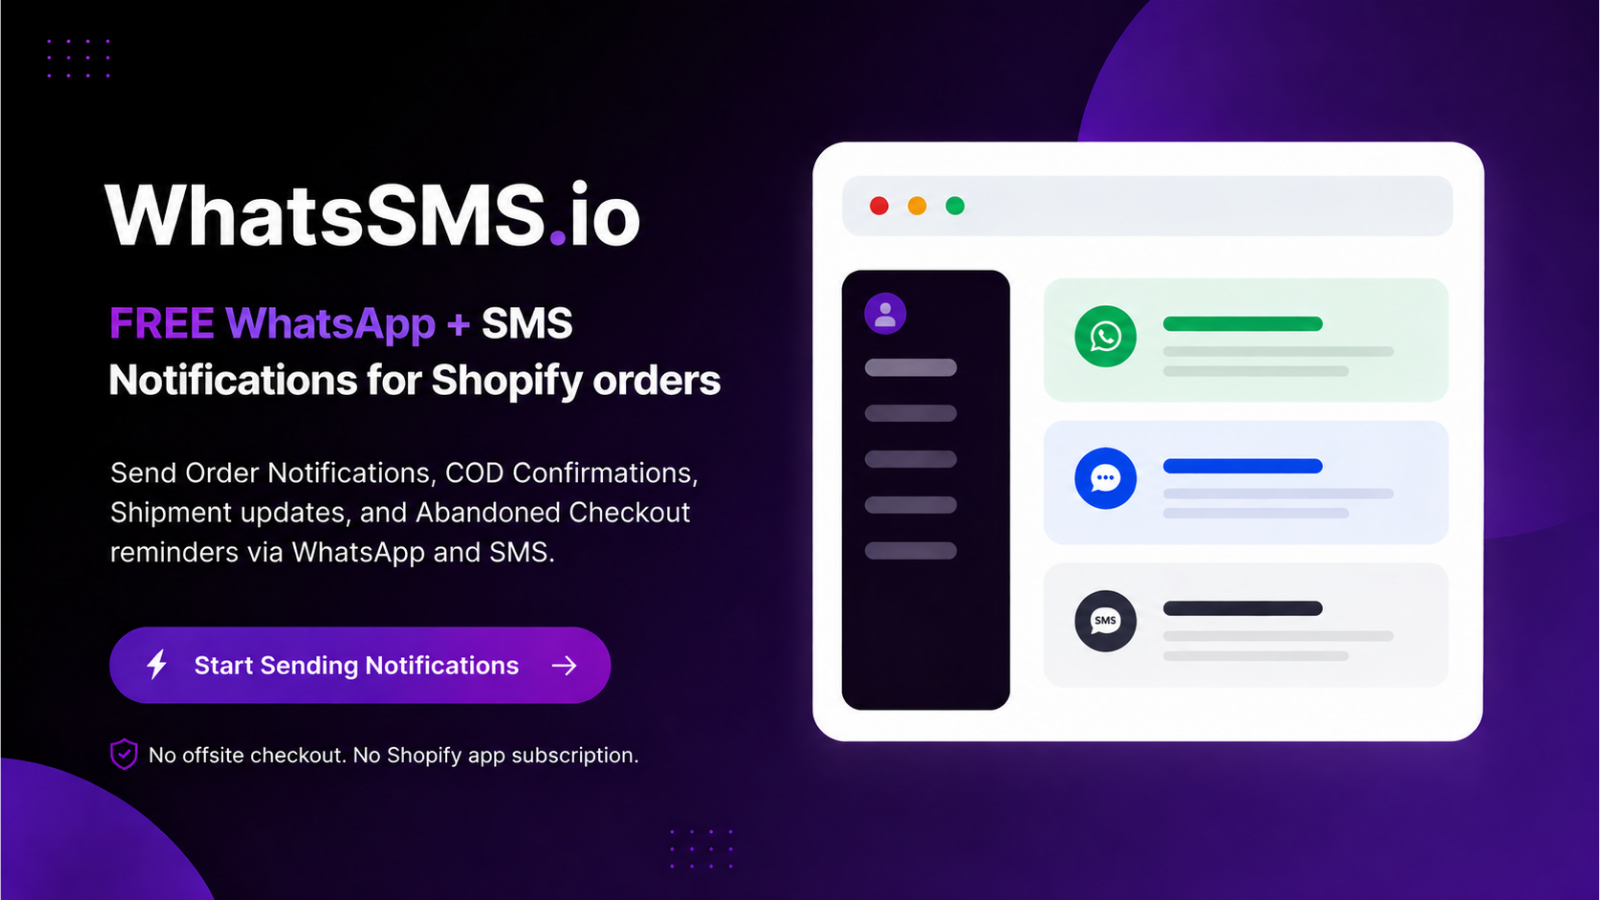
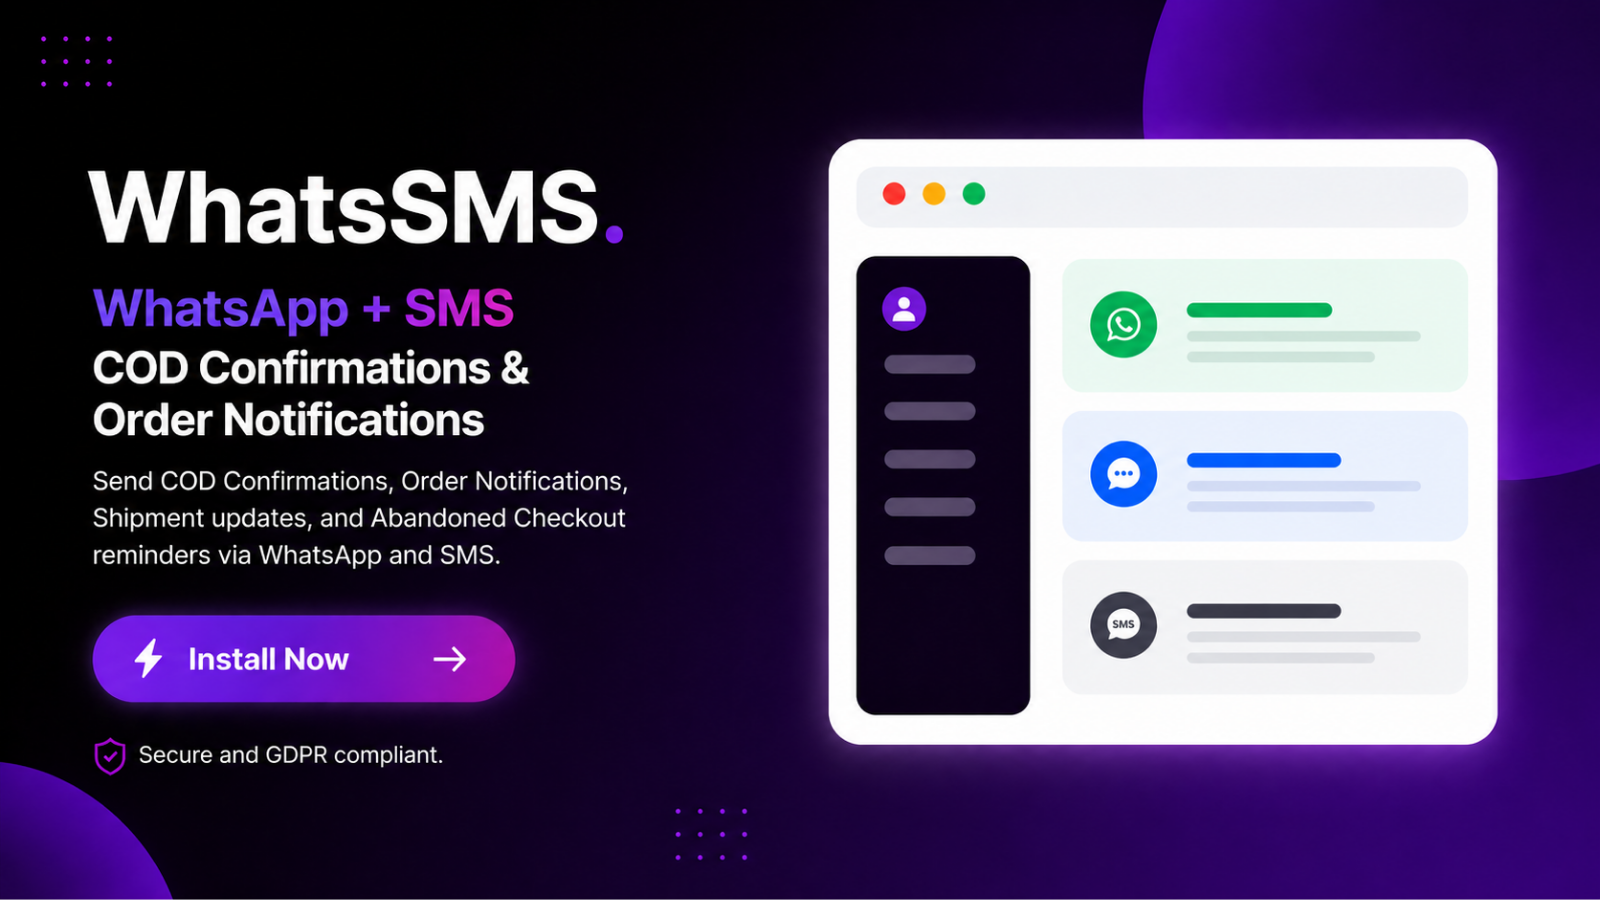
Update API key instructions and replace feature graphic
- Revised the instructions for creating API keys in WhatsSMS to include necessary permissions for functionality.
- Updated the feature graphic for the WhatsSMS app to a new version.

diff --git a/app/routes/app.connection.tsx b/app/routes/app.connection.tsx
@@ -136,12 +136,7 @@ export default function ConnectionPage() {
       <BlockStack gap="400">
         <Banner tone="info">
           <p>
-            Create API Keys in WhatsSMS under <strong>Tools → API Keys</strong> (
-            <Link url={whatssmsKeysUrl} target="_blank" removeUnderline>
-              open dashboard
-            </Link>
-            ). Enable permission for <strong>get shorteners</strong> so the app can verify your key.
-            This Shopify app is free; messaging costs are billed only on your WhatsSMS account if you use paid routes there.
+            Create API Keys in WhatsSMS under <strong>Tools → API Keys</strong>. Make sure to enable the <strong>sms_send, wa_send, get_devices, get_wa_accounts, get_shorteners</strong> permissions for the key.
           </p>
         </Banner>
         {actionData && "error" in actionData && actionData.error && (